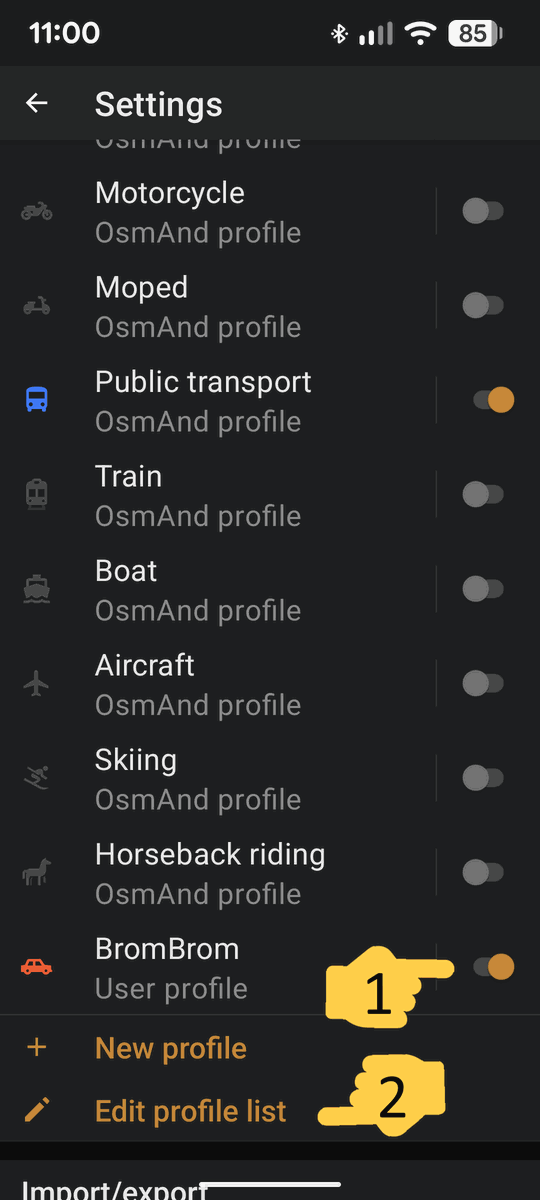
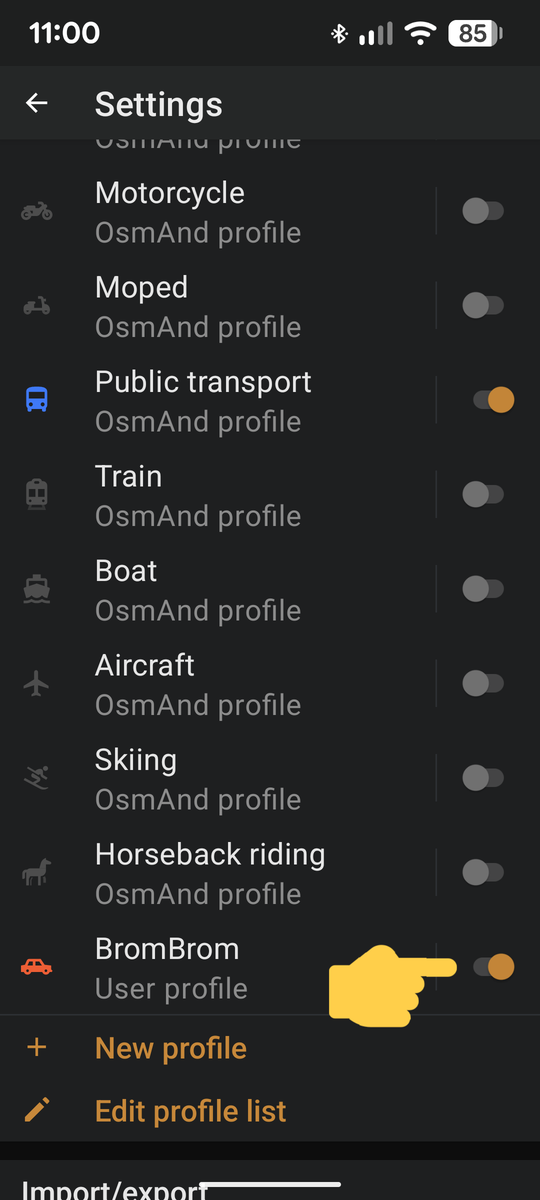
docs(manual): simplify onboarding by removing profile ordering step
Remove the 'Edit profile list / drag to top' instruction from both iOS
and Android Phase 2 sections in the manual install guide and from the
app's in-app OSF instructions dialog. The step was a nice-to-have
convenience with no functional impact on profile activation.

Changes:
- Reformulate enable step: 'Scroll down, find BromBrom, toggle ON'
- Remove drag-to-top step from iOS, Android, and app dialogs (EN + NL)
- Update warning range from steps 5–9 to 5–7 in EN and NL locales
- Remove bbm-7-drag-first.png screenshot; shrink visual guide table
  from 3 to 2 columns for Phase 2
- Rename bbm-8-set-brombrom → bbm-7, bbm-9.x → bbm-8.x accordingly
- Resize bbm-6-enable-brombrom.png from 1080×2400 to 540×1200 to
  match the scale of the other screenshots

diff --git a/app/lib/main.dart b/app/lib/main.dart
@@ -201,9 +201,8 @@ class _InstallerScreenState extends State<InstallerScreen> with WidgetsBindingOb
       'osf_dialog_step5': '5. Open het OsmAnd-hoofdmenu (drie streepjes).',
       'osf_dialog_step6': '6. Ga naar Instellingen.',
       'osf_dialog_step7': '7. Zoek "BromBrom" en schakel de schuifregelaar in (ON).',
-      'osf_dialog_step8': '8. Tik op "Profielenlijst bewerken" en sleep BromBrom naar boven.',
-      'osf_dialog_step9': '9. Tik op het profiel-icoon in het navigatiemenu en selecteer BromBrom.',
-      'osf_dialog_warning': '⚠ Sla stap 5–9 niet over — OsmAnd activeert nieuwe profielen niet automatisch.',
+      'osf_dialog_step8': '8. Tik op het profiel-icoon in het navigatiemenu en selecteer BromBrom.',
+      'osf_dialog_warning': '⚠ Sla stap 5–7 niet over — OsmAnd activeert nieuwe profielen niet automatisch.',
       'osf_dialog_btn': 'OPEN OSMAND',
       'osf_dialog_title_update': 'BromBrom bijwerken',
       'osf_dialog_p1_update': 'OsmAnd opent zo direct om de kaart bij te werken. Volg deze stappen:',
@@ -259,9 +258,8 @@ class _InstallerScreenState extends State<InstallerScreen> with WidgetsBindingOb
       'osf_dialog_step5': '5. Open the OsmAnd main menu (three lines).',
       'osf_dialog_step6': '6. Go to Settings.',
       'osf_dialog_step7': '7. Find "BromBrom" and switch the toggle to ON.',
-      'osf_dialog_step8': '8. Tap "Edit profile list" and drag BromBrom to the top.',
-      'osf_dialog_step9': '9. Tap the navigation profile icon and select BromBrom.',
-      'osf_dialog_warning': '⚠ Do not skip steps 5–9 — OsmAnd does not enable or activate new profiles automatically.',
+      'osf_dialog_step8': '8. Tap the navigation profile icon and select BromBrom.',
+      'osf_dialog_warning': '⚠ Do not skip steps 5–7 — OsmAnd does not enable or activate new profiles automatically.',
       'osf_dialog_btn': 'OPEN OSMAND',
       'osf_dialog_title_update': 'Update BromBrom',
       'osf_dialog_p1_update': 'OsmAnd will open now to update the map. Follow these steps:',
@@ -694,8 +692,6 @@ class _InstallerScreenState extends State<InstallerScreen> with WidgetsBindingOb
                               Text(_t('osf_dialog_step7'), style: TextStyle(fontSize: 14, color: Colors.grey[800])),
                               const SizedBox(height: 6),
                               Text(_t('osf_dialog_step8'), style: TextStyle(fontSize: 14, color: Colors.grey[800])),
-                              const SizedBox(height: 6),
-                              Text(_t('osf_dialog_step9'), style: TextStyle(fontSize: 14, color: Colors.grey[800])),
                               const SizedBox(height: 16),
                               Container(
                                 padding: const EdgeInsets.all(10),

diff --git a/docs/manual_install.md b/docs/manual_install.md
@@ -23,9 +23,8 @@ The iOS version of OsmAnd natively supports OsmAnd Smart Folders (`.osf`).
 #### Phase 2: Profile Activation (First-Time Installation Only)
 7. Open the OsmAnd menu (three lines button in the corner).
 8. Go to **Settings** -> **Configure profiles**.
-9. Scroll down, find **BromBrom** and toggle it **ON**. Then tap **Edit profile list** to manage profiles.
-10. Drag the **BromBrom** profile to the top to make it quickly selectable.
-11. Tap the navigation icon and select the **BromBrom** profile (orange microcar icon).
+9. **Enable BromBrom** — Scroll down to the profiles list, find the BromBrom profile, and toggle the switch to **ON**.
+10. Tap the navigation icon and select the **BromBrom** profile (orange microcar icon).
 
 ## 🤖 Android Devices (Without Manager App)
 
@@ -46,9 +45,8 @@ If you prefer not to use the BromBrom Manager app, you can achieve the exact sam
 #### Phase 2: Profile Activation (First-Time Installation Only)
 8. Open the OsmAnd menu (three lines button in the corner).
 9. Go to **Settings** -> **Configure profiles**.
-10. Scroll down, find **BromBrom** and toggle it **ON**. Then tap **Edit profile list** to manage profiles.
-11. Drag the **BromBrom** profile to the top to make it quickly selectable.
-12. Tap the navigation icon and select the **BromBrom** profile (orange microcar icon).
+10. **Enable BromBrom** — Scroll down to the profiles list, find the BromBrom profile, and toggle the switch to **ON**.
+11. Tap the navigation icon and select the **BromBrom** profile (orange microcar icon).
 
 ## 📸 Visual Setup Guide
 
@@ -73,9 +71,9 @@ Refer to these screenshots to verify your setup steps.
   | :---: | :---: |
   | ![Open Menu](../assets/bbm-screenshots/bbm-4-open-menu.png) | ![Open Settings](../assets/bbm-screenshots/bbm-5-open-settings.png) |
 
-  | 3. Enable BromBrom & Edit Profile List | 4. Position / Order Profile | 5. Select BromBrom Profile |
-  | :---: | :---: | :---: |
-  | ![Enable BromBrom](../assets/bbm-screenshots/bbm-6-enable-brombrom.png) | ![Position Profile](../assets/bbm-screenshots/bbm-7-drag-first.png) | ![Select BromBrom](../assets/bbm-screenshots/bbm-8-set-brombrom.png) |
+  | 3. Enable BromBrom | 4. Select BromBrom Profile |
+  | :---: | :---: |
+  | ![Enable BromBrom](../assets/bbm-screenshots/bbm-6-enable-brombrom.png) | ![Select BromBrom](../assets/bbm-screenshots/bbm-7-set-brombrom.png) |
 </details>
 
 
